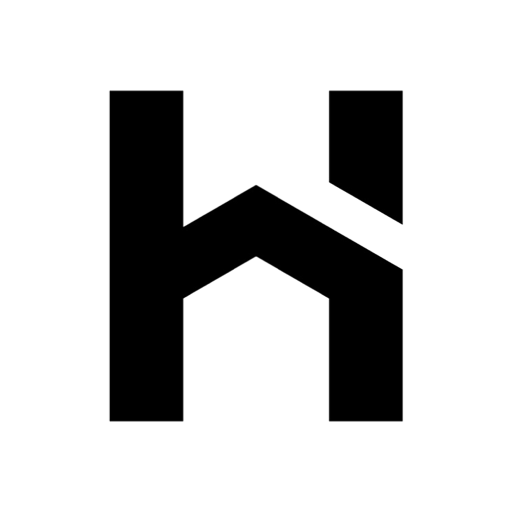
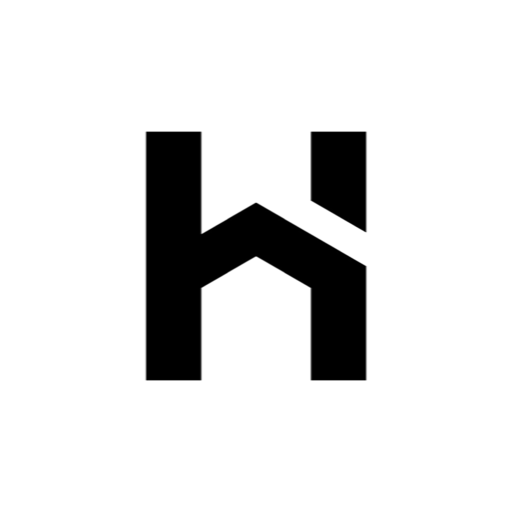
아이콘을 작게 하고, 어두운 화면에서 위아래 흰 띠가 남던 것을 고친다
아이콘: 크기마다 심볼 원본에서 곧장 만든다. 512 를 만들어 놓고 거기서 180 을
줄이면 두 번 줄어들어 뭉갠다. 글자는 한 변의 50% 로 줄였다 — 홈화면에서
꽉 차 보였다.

색: 노치와 홈바에 깔리는 색이 늘 밝은 값이라, 포털이 어두운 화면일 때 앱
위아래에 흰 띠가 남았다. 포털의 배경색과 같은 값을 따라가게 한다.

Changed region(s): [[0.1875, 0.1562, 0.8125, 0.8438]]

diff --git a/index.html b/index.html
@@ -24,19 +24,25 @@
 -->
 
 <link rel="manifest" href="manifest.webmanifest">
-<meta name="theme-color" content="#f7f5f3">
+<!--
+  위아래 안전영역(노치·홈바)에 깔리는 색. 포털이 어두운 화면일 때 여기가
+  밝으면 앱 위아래에 흰 띠가 남는다. 포털의 배경색과 같은 값을 쓴다.
+-->
+<meta name="theme-color" media="(prefers-color-scheme: light)" content="#f7f5f3">
+<meta name="theme-color" media="(prefers-color-scheme: dark)" content="#211f1c">
 
 <!-- 아이폰은 manifest 를 안 본다. 아래 셋이 아이폰 몫이다. -->
 <meta name="apple-mobile-web-app-capable" content="yes">
 <meta name="apple-mobile-web-app-status-bar-style" content="default">
 <meta name="apple-mobile-web-app-title" content="업무지원 포털">
-<link rel="apple-touch-icon" href="icon-180.png">
+<link rel="apple-touch-icon" sizes="180x180" href="icon-180.png">
+<link rel="apple-touch-icon" sizes="152x152" href="icon-152.png">
 <link rel="icon" href="icon-192.png">
 
 <style>
   html, body {
     margin: 0; padding: 0; height: 100%;
-    background: #f7f5f3;
+    background: #f7f5f3;   /* 포털의 --bg 와 같은 값 */
     /* 노치·홈바에 화면이 가리지 않게 한다. */
     padding: env(safe-area-inset-top) env(safe-area-inset-right)
              env(safe-area-inset-bottom) env(safe-area-inset-left);
@@ -61,6 +67,13 @@
   #wait div { text-align: center; }
   /* display:grid 가 브라우저의 hidden 처리를 이기므로 직접 적어 준다. */
   #wait[hidden] { display: none; }
+
+  /* 어두운 화면일 때. 값은 포털 Style.html 의 다크 모드 --bg 와 같다. */
+  @media (prefers-color-scheme: dark) {
+    html, body { background: #211f1c; }
+    #wait { background: #211f1c; color: #a69a8f; }
+    #wait img { filter: invert(1); }
+  }
 </style>
 </head>
 <body>

diff --git a/sw.js b/sw.js
@@ -8,14 +8,15 @@
  * 되고, 그건 안 보이는 것보다 나쁘다. 껍데기(아이콘·틀)만 담아 두어서 신호가
  * 약할 때도 앱이 흰 화면 대신 무언가를 띄우게 한다.
  */
-const SHELL = 'homeludens-shell-v2';
+const SHELL = 'homeludens-shell-v3';
 const FILES = [
   './',
   './index.html',
   './manifest.webmanifest',
   './icon-192.png',
   './icon-512.png',
-  './icon-180.png'
+  './icon-180.png',
+  './icon-152.png'
 ];
 
 self.addEventListener('install', e => {
